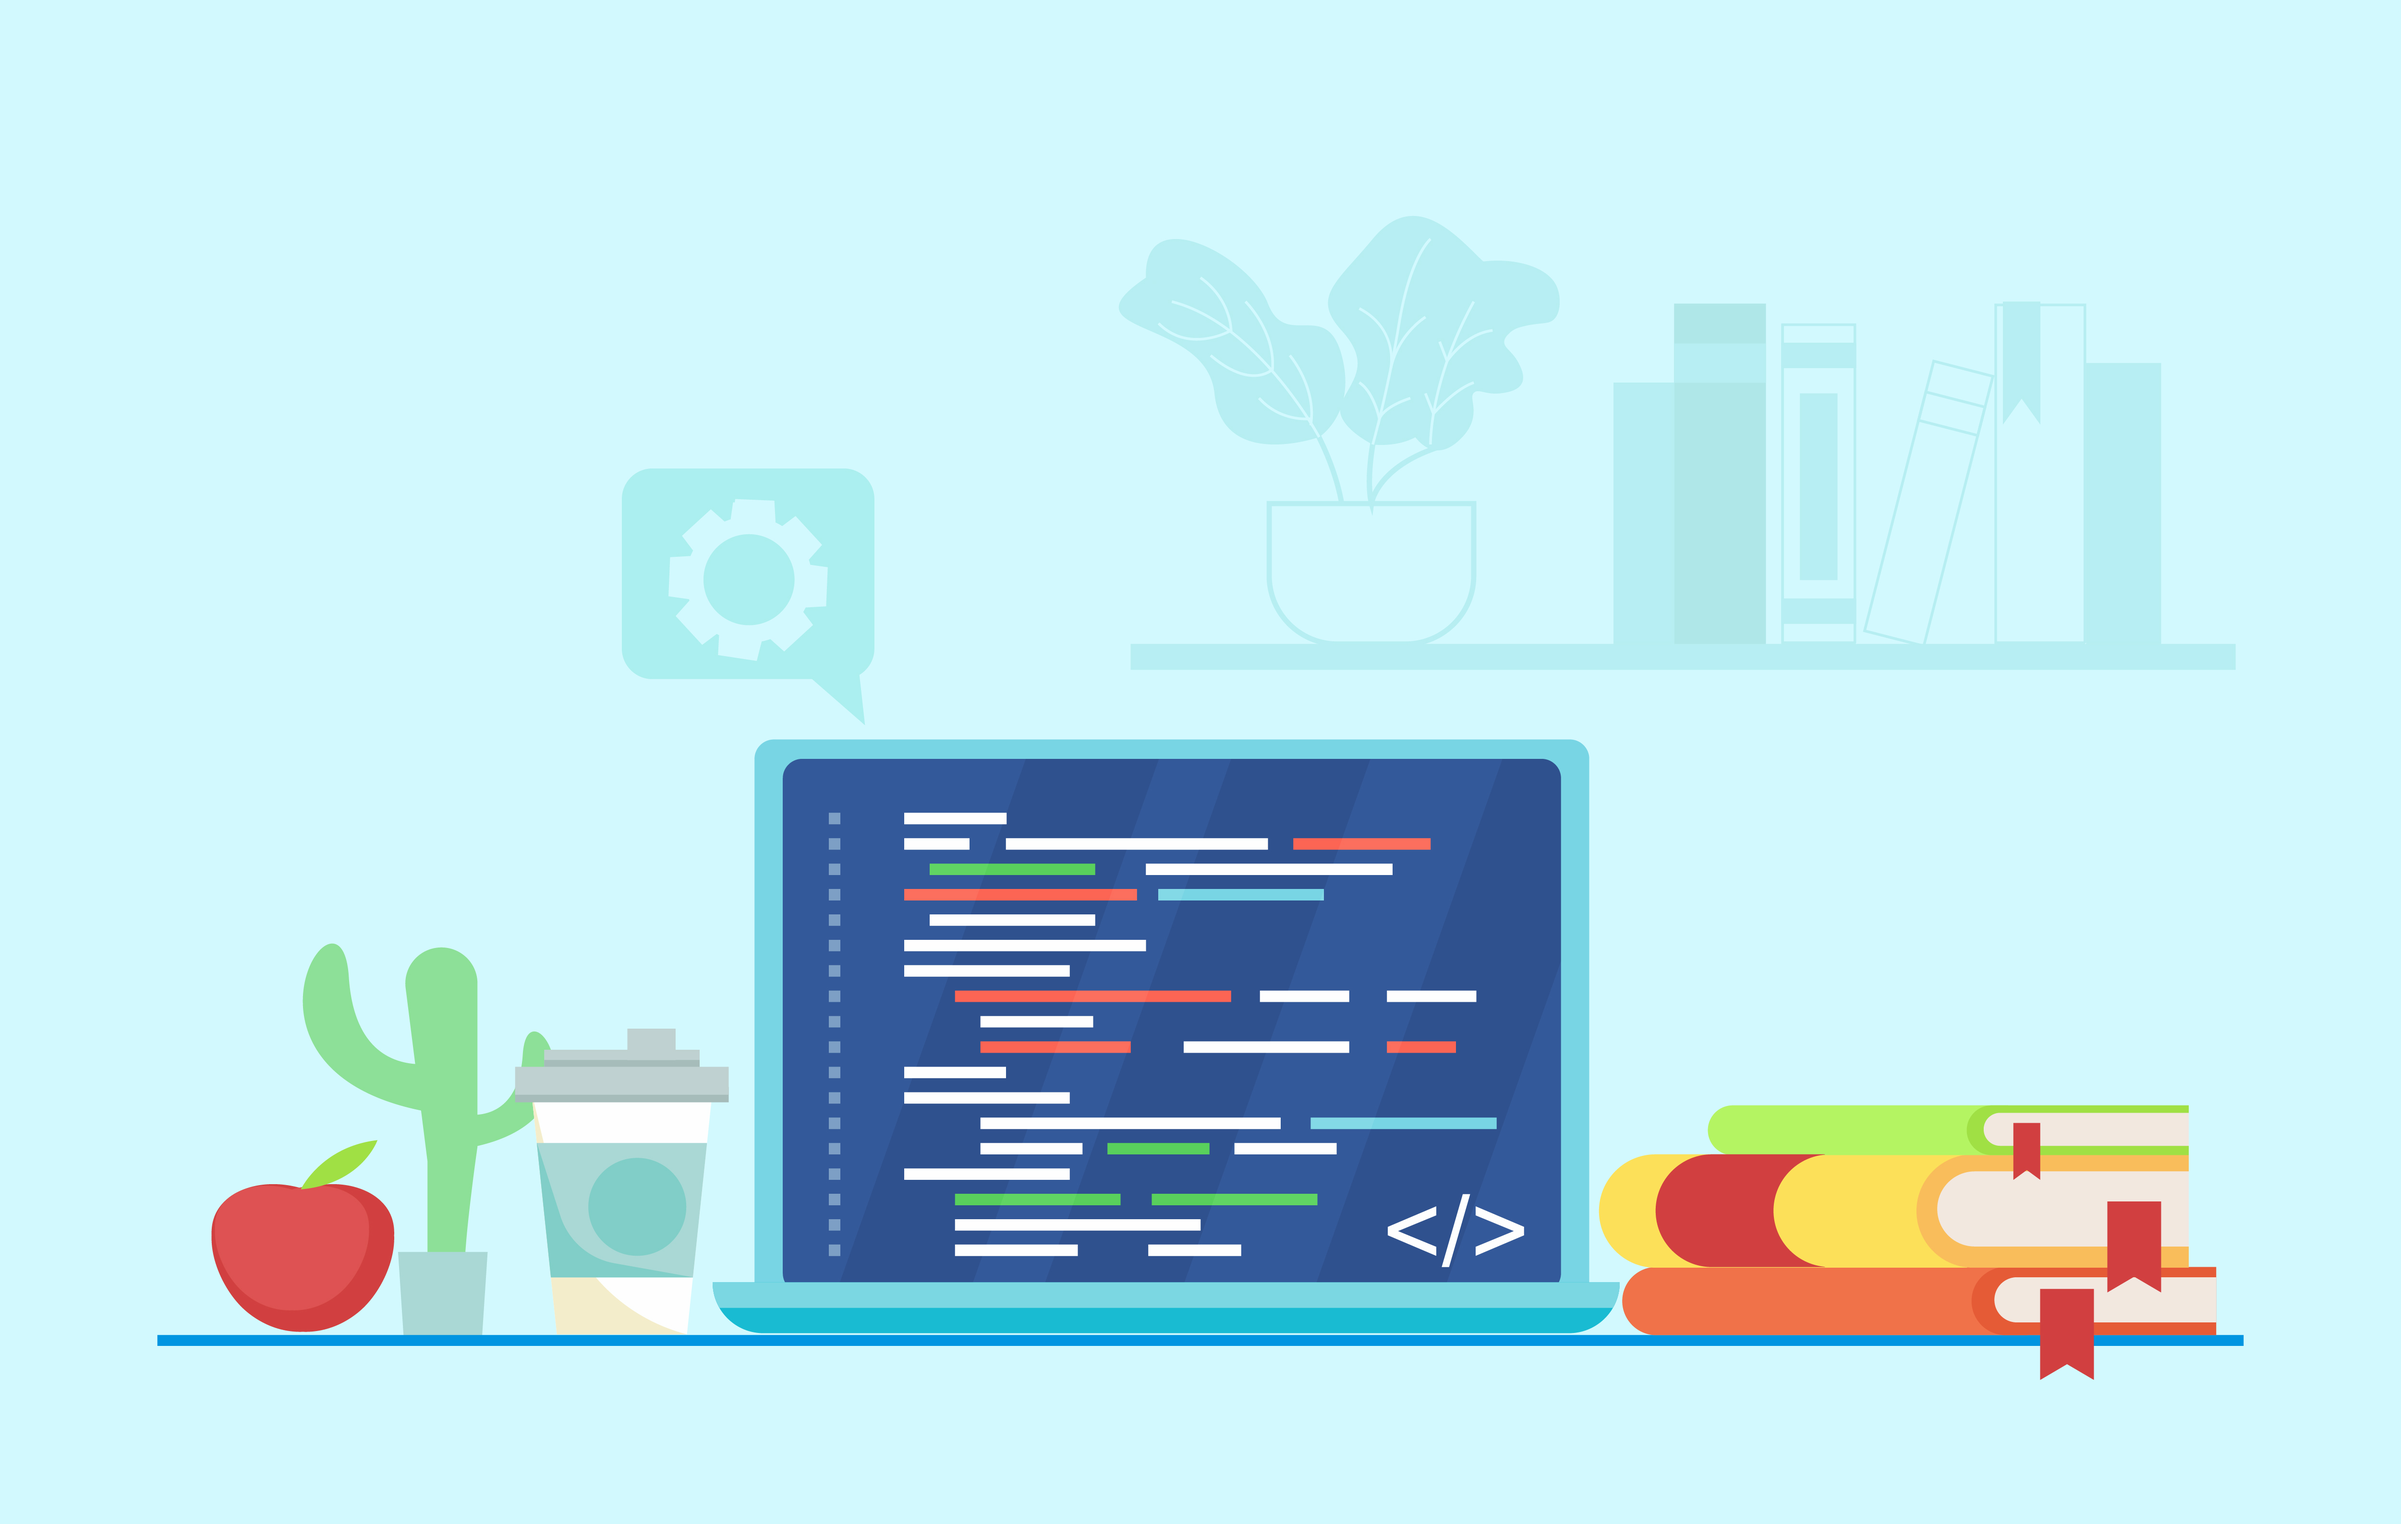
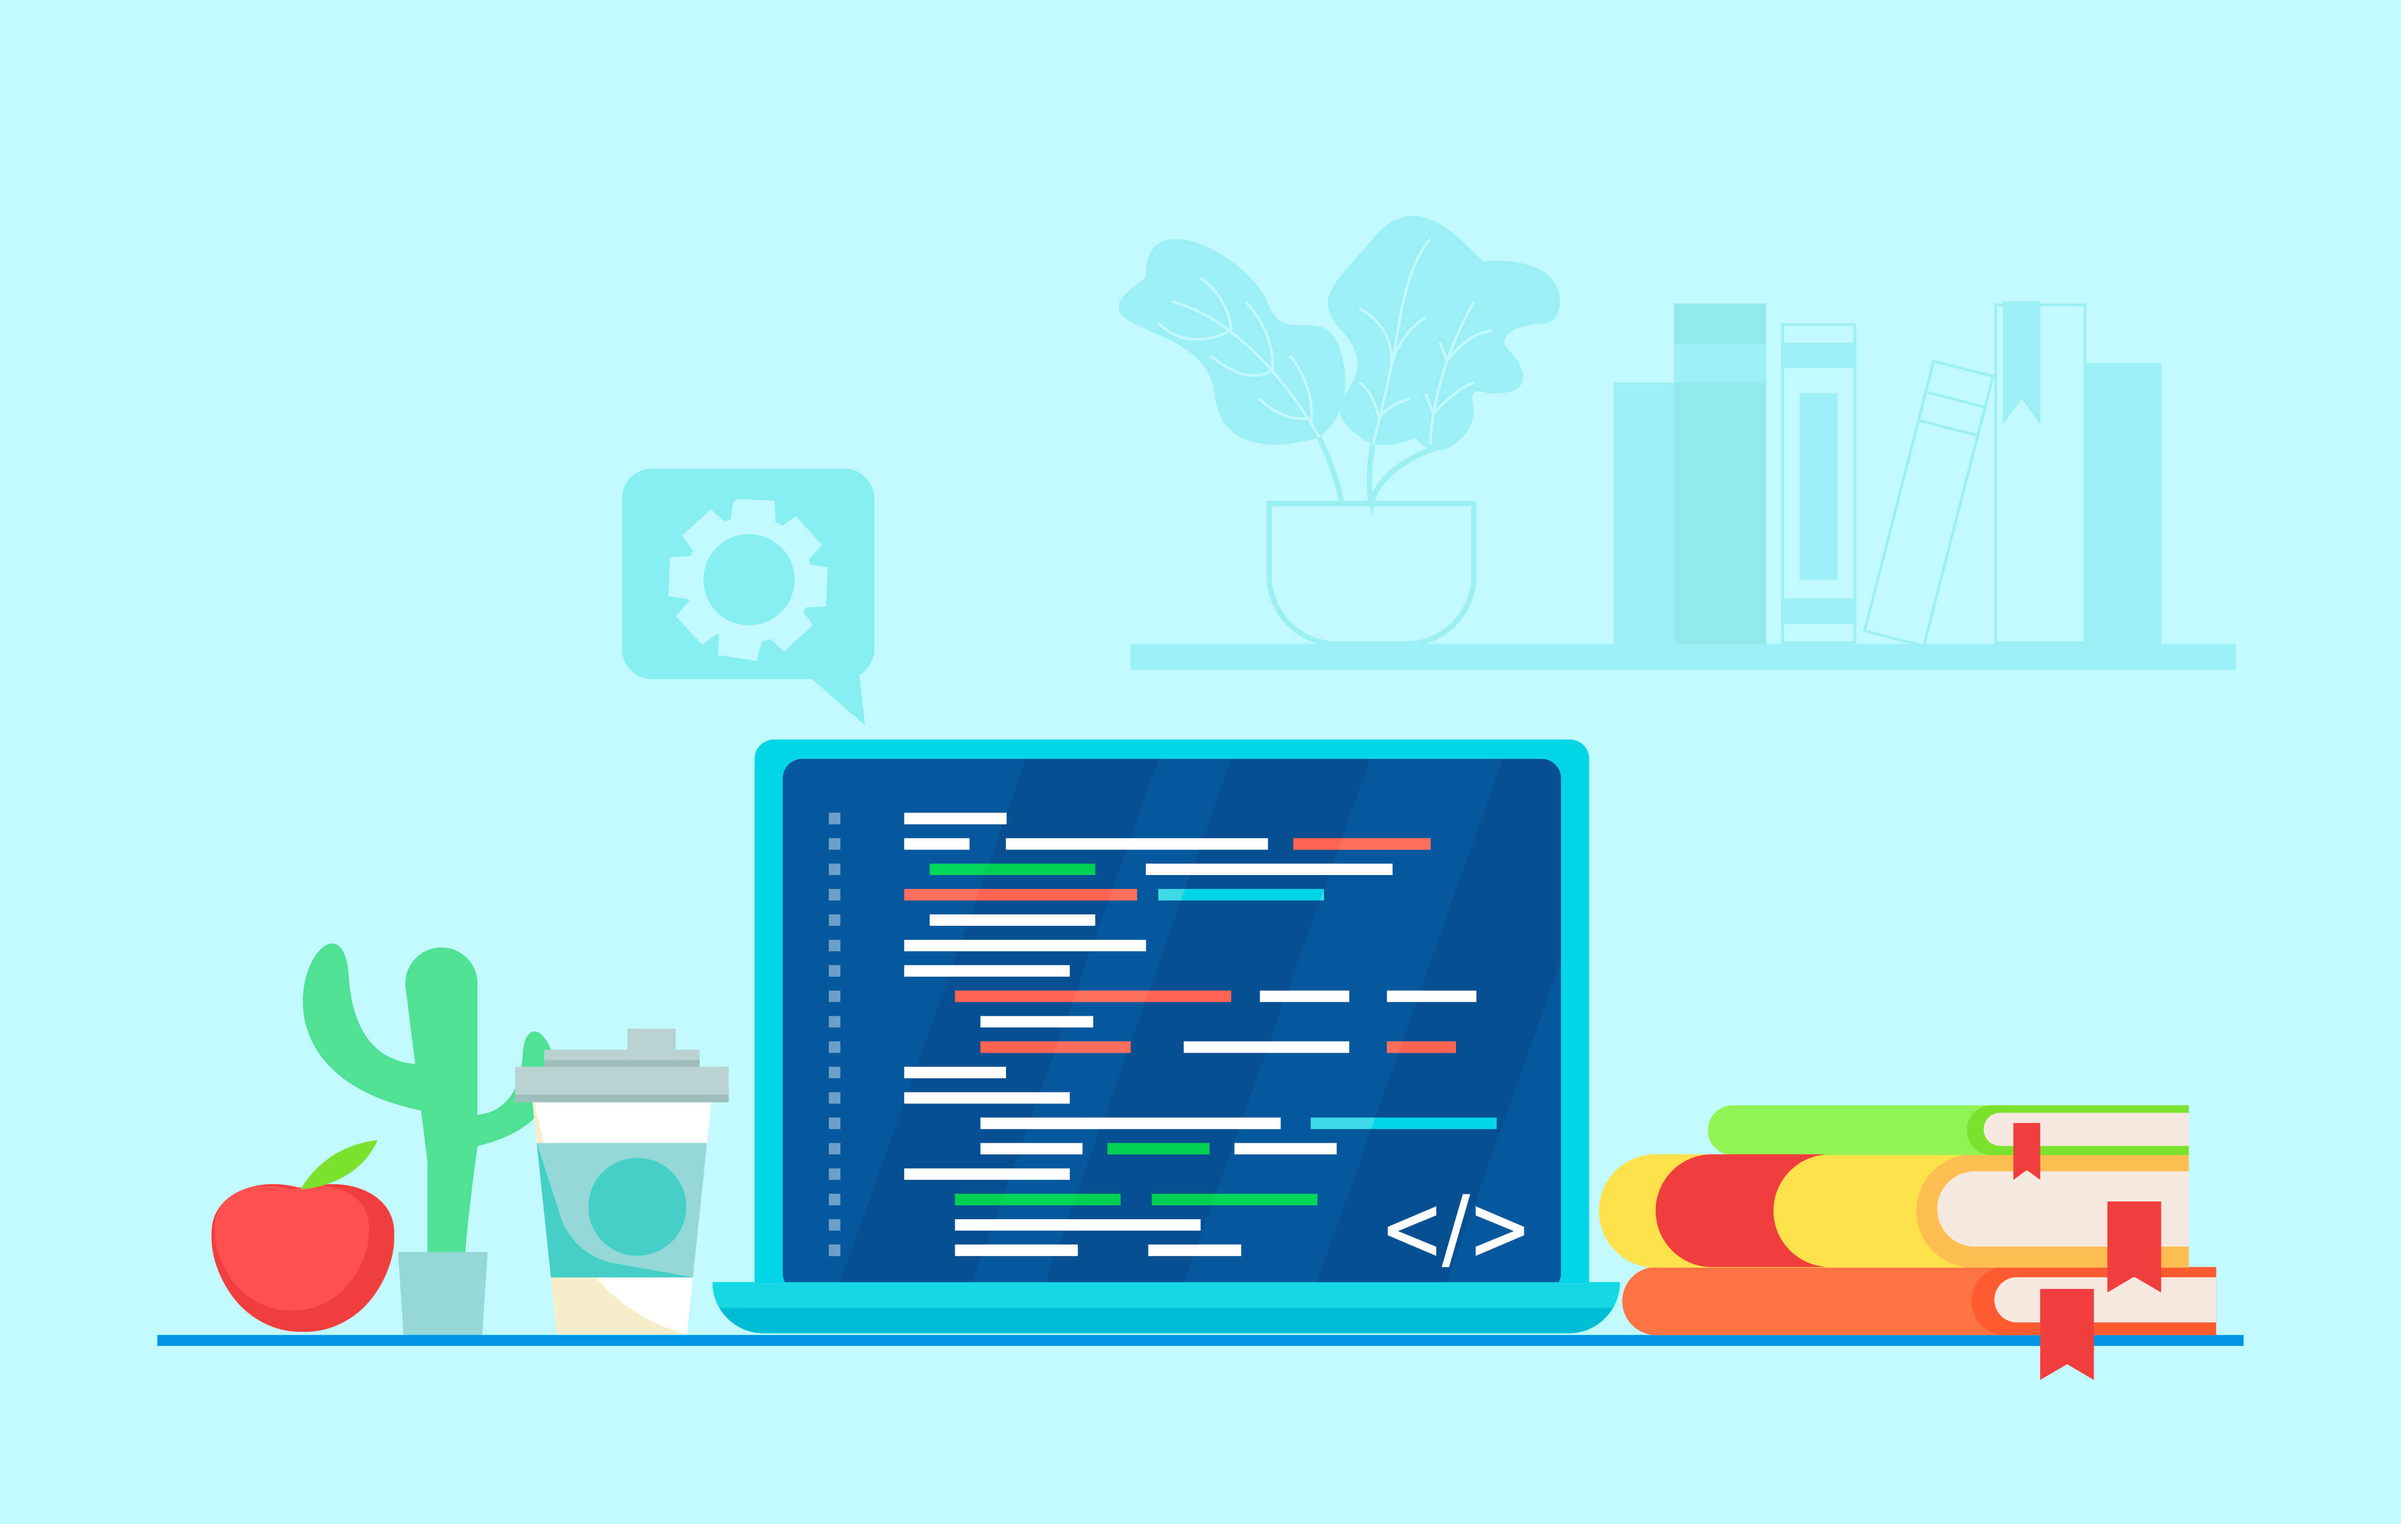
se modificó estilos y se optimizaron las imagenes de prueba

Changed region(s): [[0.0624, 0.2806, 0.936, 0.9043], [0.468, 0.1871, 0.936, 0.4365], [0.468, 0.1247, 0.6552, 0.343]]

diff --git a/pages/index.jsx b/pages/index.jsx
@@ -4,7 +4,6 @@ import Link from "next/link"
 import { Fragment } from "react"
 import HeadMeta from "../components/HeadMeta"
 import Image from "next/image"
-import classNames from 'classnames'
 export default function Home() {
   return (
 
@@ -37,6 +36,10 @@ export default function Home() {
           </div>
         </div>
 
+          <div className={styles.separator}>
+            
+          </div>
+
         <section className={styles.experiences}>
           <div className={styles.experiences_body}>
             <h2 className={styles.experiences_title}>Modificar titulo 1</h2>
@@ -44,59 +47,67 @@ export default function Home() {
 
               <div className={styles.experience + ' ' + styles.experience_1}>
                 <div className={styles.experience_description}>
-                  texto 1
+                  Lorem ipsum dolor, sit amet consectetur adipisicing elit. Nulla repudiandae debitis ipsa eligendi autem tempora recusandae inventore suscipit molestias tenetur.
                 </div>
               </div>
-
-              <div className={styles.empty + ' ' + styles.empty_1}>
-                <Image src="/imagenes/238.jpg" height={300} width={300} alt="imagen"/>
-              </div>
-              {/* <div className={styles.line}></div> */}
+              
+              <Link href="/">
+                <a className={styles.pages_radius}>
+                  <div className={styles.empty + ' ' + styles.empty_1}>
+                    <Image src="/imagenes/238.jpg" height={300} width={300} alt="imagen"/>
+                  </div>
+                </a>
+              </Link>
 
 
               <div className={styles.experience + ' ' + styles.experience_2}>
                 <div className={styles.experience_description}>
-                texto 2
+                Lorem, ipsum dolor sit amet consectetur adipisicing elit. Repellat laborum asperiores doloremque ad placeat ex odit quod eos, autem vitae ut ipsam aliquid ab quae.
                 </div>
               </div>
 
-              <div className={styles.empty + ' ' + styles.empty_2}>
-                <Image src="/imagenes/238.jpg" height={300} width={300} alt="imagen"/>
-              </div>
-              {/* <div className={styles.line}></div> */}
+              <Link href="/">
+                  <a className={styles.pages_radius}>
+                    <div className={styles.empty + ' ' + styles.empty_2}>
+                      <Image src="/imagenes/238.jpg" height={300} width={300} alt="imagen"/>
+                    </div>
+                  </a>
+              </Link>
 
               <div className={styles.experience + ' ' + styles.experience_3}>
                 <div className={styles.experience_description}>
-                texto 3
+                Lorem ipsum dolor sit amet consectetur adipisicing elit. Eum rerum perferendis odit, et illo architecto.
                 </div>
               </div>
 
-              <div className={styles.empty + ' ' + styles.empty_3}>
-                <Image src="/imagenes/238.jpg" height={300} width={300} alt="imagen"/>
-              </div>
-              {/* <div className={styles.line}></div> */}
-
+              <Link href="/">
+                  <a className={styles.pages_radius}>
+                    <div className={styles.empty + ' ' + styles.empty_3}>
+                      <Image src="/imagenes/238.jpg" height={300} width={300} alt="imagen"/>
+                    </div>
+                  </a>
+              </Link>
             
 
               <div className={styles.experience + ' ' + styles.experience_4}>
                 <div className={styles.experience_description}>
-                texto 4
+                Lorem ipsum dolor, sit amet consectetur adipisicing elit. Assumenda tenetur aliquam esse incidunt. Eaque reiciendis vitae doloremque tenetur et! Eveniet unde ex soluta accusantium aut dolore culpa eius optio assumenda.
                 </div>
               </div>
 
-              {/* <div className={styles.line}></div> */}
-              <div className={styles.empty + ' ' + styles.empty_4}>
-                <Image src="/imagenes/238.jpg" height={300} width={300} alt="imagen"/>
-              </div>
+              <Link href="/">
+                  <a className={styles.pages_radius}>
+                    <div className={styles.empty + ' ' + styles.empty_4}>
+                      <Image src="/imagenes/238.jpg" height={300} width={300} alt="imagen"/>
+                    </div>
+                  </a>
+              </Link>
+
+
             </div>
           </div>
         </section>
 
-        {/* <div className={styles.description_container}>
-          <p className={styles.description_text}>
-          En una era digital, tener presencia online ha pasado de ser un lujo a ser una necesidad, ya que podemos mostrar nuestros productos o servicios a clientes potenciales, ofreciéndoles la posibilidad de acceder a la información de nuestro negocio las 24 horas y en un rango más amplio al que tenemos en el espacio físico.
-          </p>
-        </div> */}
       </Layout>
     </Fragment>
 

diff --git a/styles/Index.module.css b/styles/Index.module.css
@@ -14,10 +14,10 @@
     justify-items: center;
     align-items: center;
     width: 100%;
-    max-width: 1200px;
+    max-width: 2560px;
     margin: 0 auto auto auto;
-    align-content: space-around;
-    background-image: url("../public/imagenes/3d-render-of-low-poly-plexus-design-network-communications.jpg");
+    align-content: space-around; 
+    background-image: url("../public/imagenes/portrait.jpg");
     background-position: center;
     background-size: cover;
     background-repeat: no-repeat;
@@ -26,8 +26,9 @@
 
 .inicial_text{
     font-size: 1.3em;
-    padding: 20px 0;
+    padding: 20px 10px;
     color: var(--index_presentation_color);
+    text-align: center;
 }
 
 .main_primary_title{
@@ -35,39 +36,55 @@
     font-size: 3em;
     font-weight: 1000;
     color: var(--index_presentation_color);
+    text-align: center;
 }
 
 .main_secondary_title{
-    padding: 20px 0;
+    padding: 20px 10px;
     color: var(--index_presentation_color);
     font-size: 1.3em;
+    text-align: center;
 }
 
 .button_contact{
     font-size: 1.5em;
     text-decoration: none;
     padding: 20px 40px;
-    background-color: var(--index_presentation_color);
+    border: 2px solid white;
     border-radius: 10px;
-    opacity: 0.5; 
     font-weight: bold;
-    color: var(--header_hover_color);
+    color: var(--index_presentation_color);
     transition: all .1s ease;
+    text-align: center;
 }
 
 .button_contact:hover{
-    opacity: 1;
+    opacity: 0.5;
+    background-color: var(--index_presentation_color);
+    color: black;
 }
 
 
 /*---------------------------------------------------------------------------------*/
+
+.separator{
+    width: 100%;
+    height: 80px;
+    background-image: url("../public/imagenes/wave.svg");
+    background-repeat: no-repeat;
+    background-size: cover;
+    background-position: center;
+    margin-bottom: -4px;
+}
+
+
 .experiences{
     display: flex;
     flex-direction: column;
 }
 
 .experiences_body{
-    background-color: var(--header_hover_color);
+    background-color: var(--index_pages_background);
     color: var(--index_presentation_color);
 }
 
@@ -102,6 +119,12 @@
     margin: 0 auto;
 }
 
+.pages_radius span{
+    box-shadow: 0px 0px 18px 2px var(--index_pages_border_color);
+    border-radius: 10%;
+}
+
+
 
 @media (min-width: 864px){
     
@@ -134,7 +157,7 @@
         padding: 70px;
         justify-content: center;
         place-items: center;
-        max-width: 864px;
+        max-width: 1100px;
         margin: 0 auto;
     }
 
@@ -143,14 +166,19 @@
     .experience_3{grid-area: txt3;}
     .experience_4{grid-area: txt4;}
 
-    .empty_1{grid-area: img1;}
-    .empty_2{grid-area: img2;}
-    .empty_3{grid-area: img3;}
-    .empty_4{grid-area: img4;}
-
-    .empty{
-        margin: 40px 0;
+    .empty_1{
+        grid-area: img1;
     }
+    .empty_2{
+        grid-area: img2;
+    }
+    .empty_3{
+        grid-area: img3;
+    }
+    .empty_4{
+        grid-area: img4;
+    }
+
 }
 
 
@@ -158,21 +186,6 @@
 
 /*----------------------------------------------------------------------------------*/
 
-.description_container{
-    width: 100%;
-    display: flex;
-    flex-direction: column;
-    height: auto;
-    justify-items: center;
-    align-items: center;
-}
-.description_text{
-    font-size: 2em;
-    padding: 10px 30px;
-    background-color: var(--header_hover_color);
-    color: var(--index_presentation_color);
-    max-width: 1200px;
-}
 
 @media (max-width: 528px){
     .main_primary_title{

diff --git a/components/Header.jsx b/components/Header.jsx
@@ -16,7 +16,7 @@ export default function Header() {
                         </a>
                     </Link>
 
-                    <button className={toggle, styles.toggle} onClick={()=>{
+                    <button className={toggle, styles.toggle} aria-label="menú" onClick={()=>{
 
                         const data = document.querySelector("#nav_menu")
                         data.classList.toggle(styles.nav_menu_visible)

diff --git a/styles/globals.css b/styles/globals.css
@@ -45,4 +45,6 @@ ul{
 
 
   --index_presentation_color: rgb(255,255,255);
+  --index_pages_border_color: rgba(53, 30, 157, 0.75);
+  --index_pages_background: rgb(3, 154, 255);
 }

diff --git a/styles/Header.module.css b/styles/Header.module.css
@@ -11,7 +11,7 @@
 .nav{
     display: flex;
     justify-content: space-between;
-    max-width: 992px;
+    max-width: 1300px;
     margin: 0 auto;
 }
 
